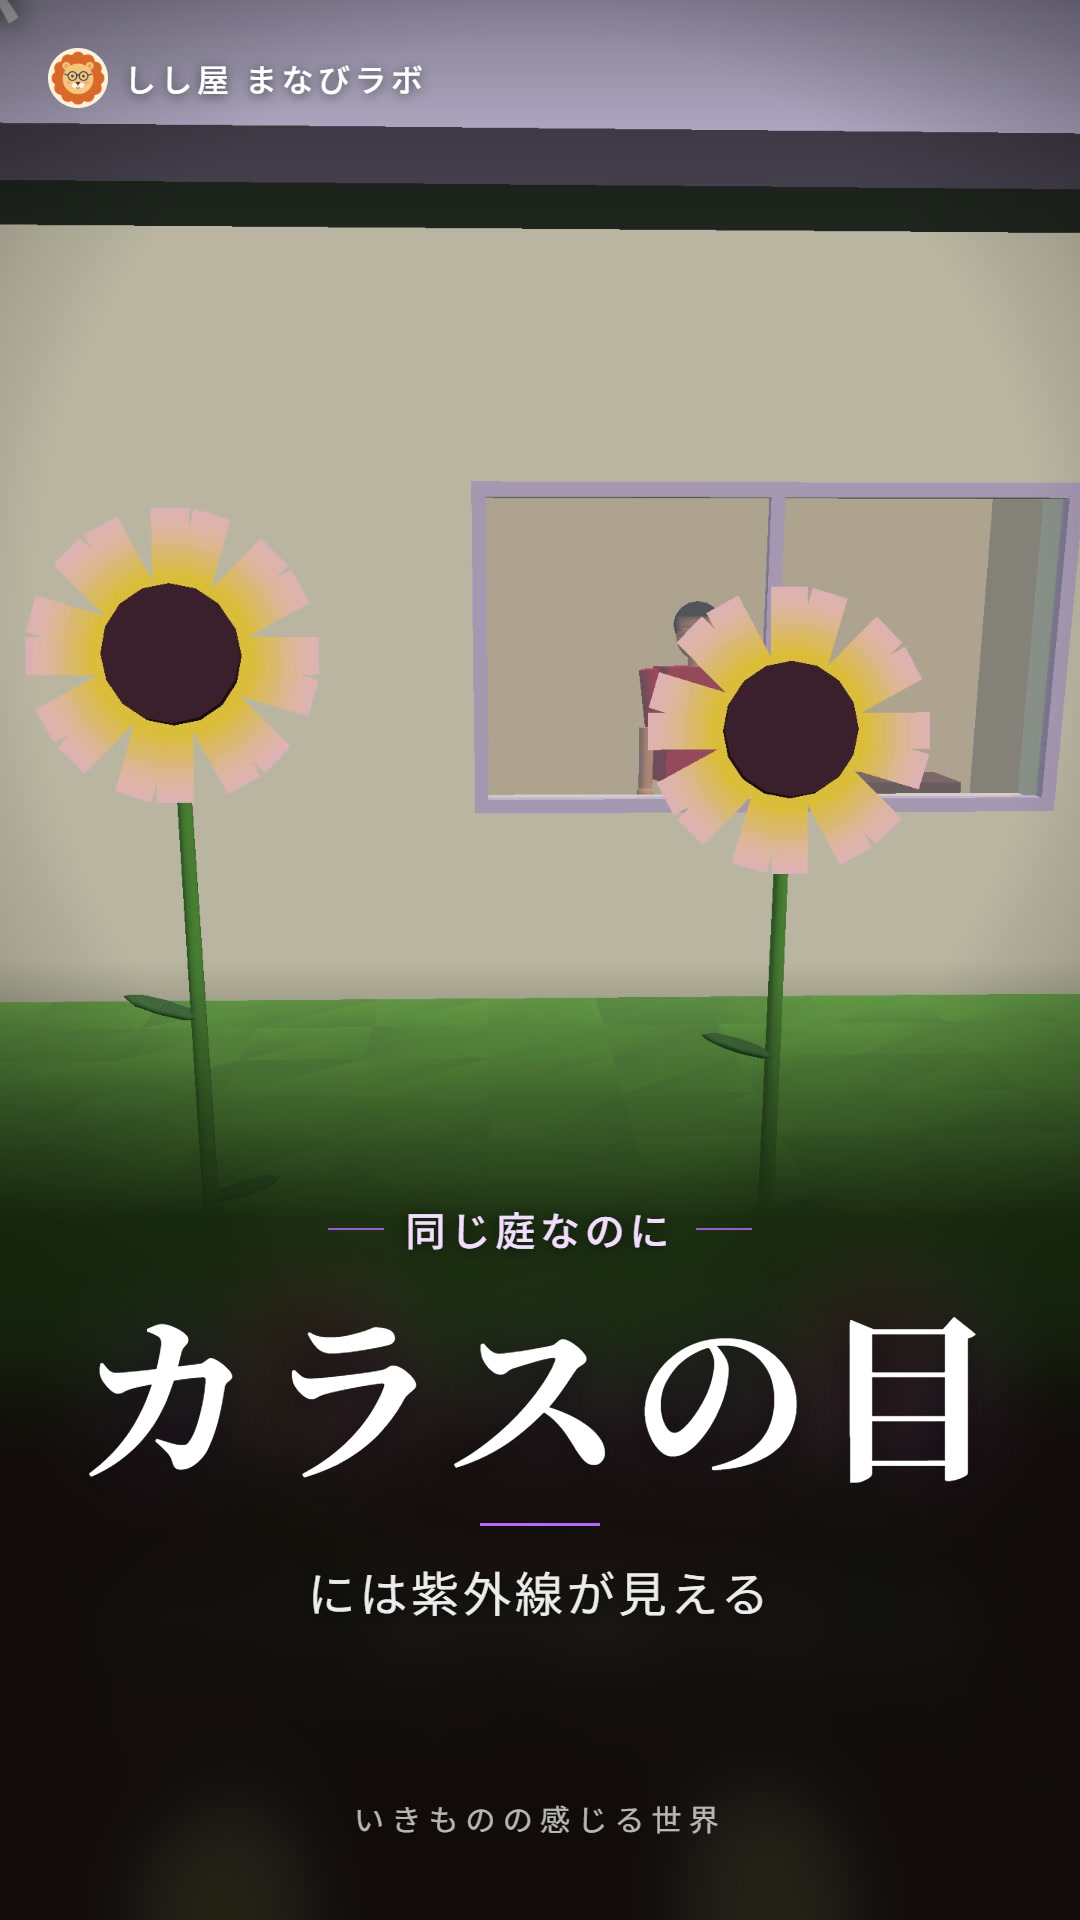
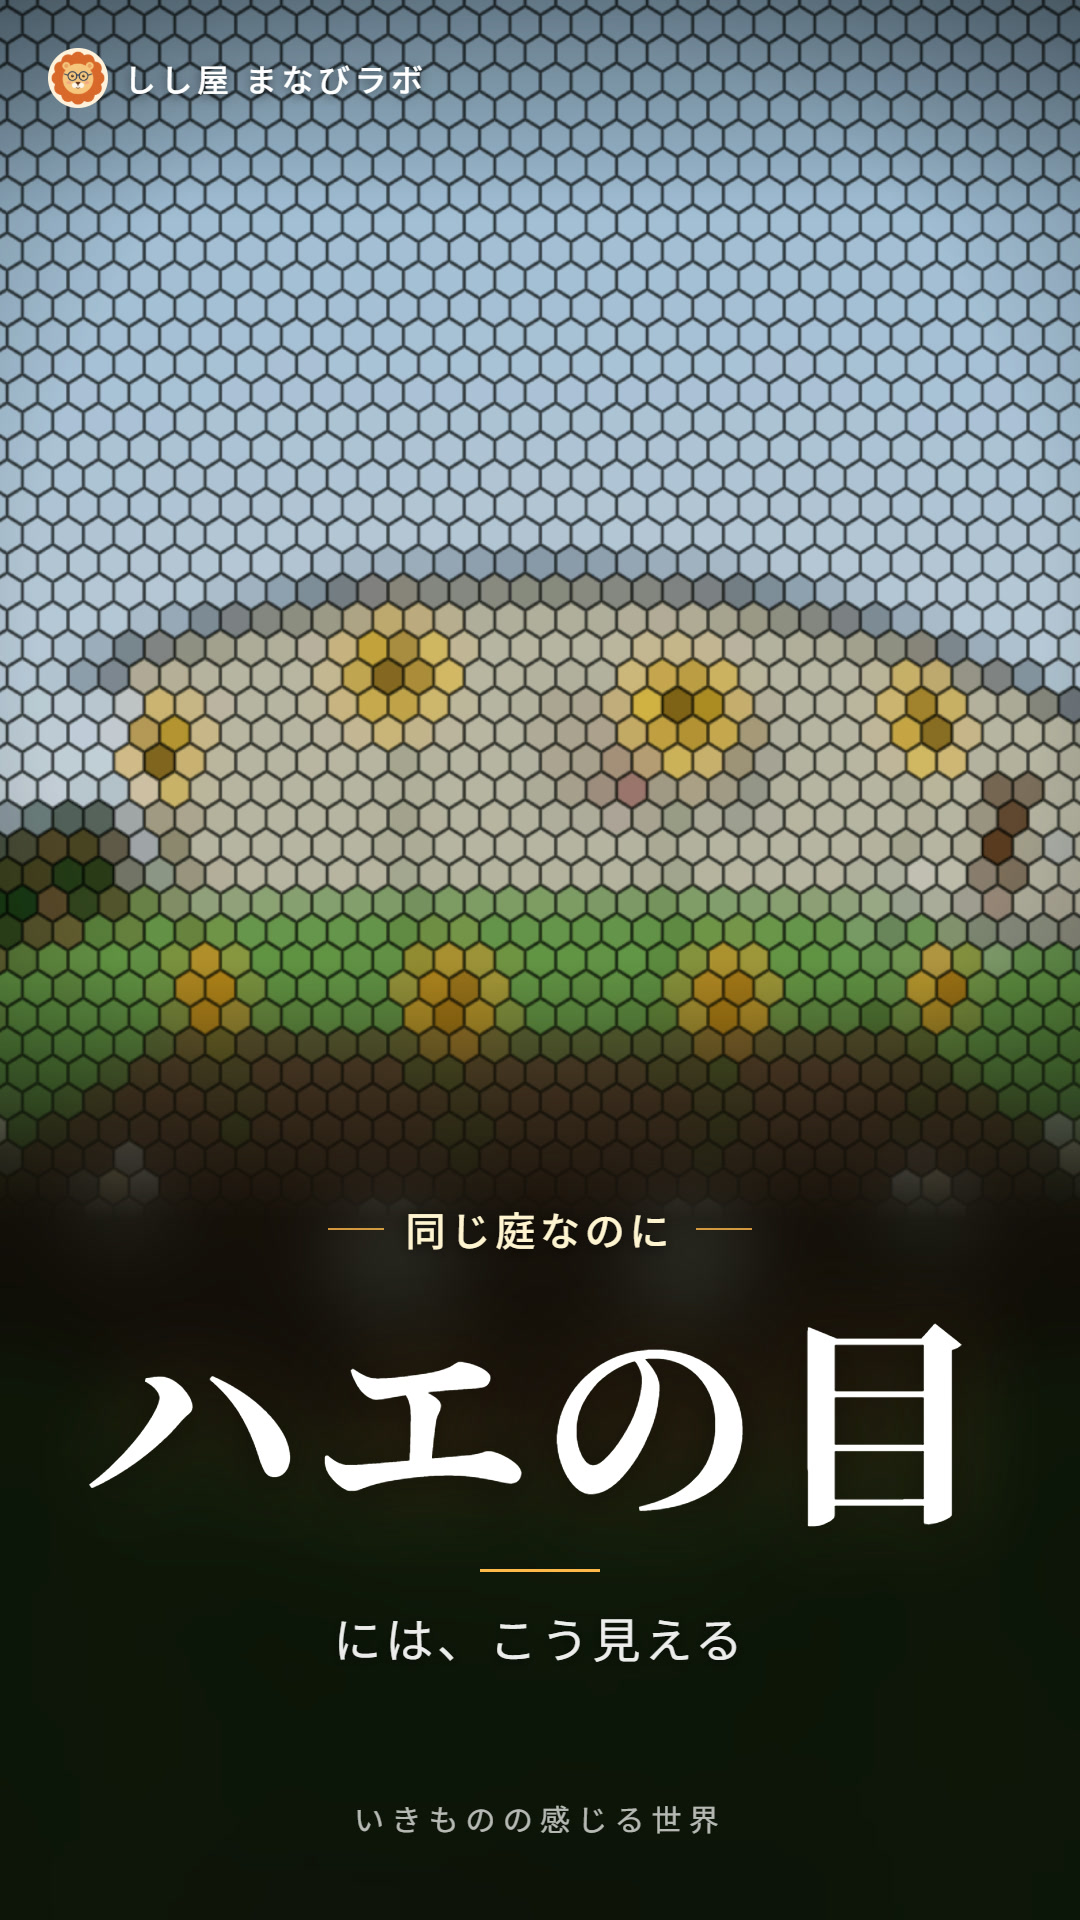
promo: いきものの感じる世界のサムネイルを「カラスの目」から「ハエの目」に（カラスは人の目とほぼ同じ絵で目立たなかった）。ショートにハエの場面はないので、アプリを 4K で撮った絵を _dev/promo/stills/ に置き、make-short-thumbs.ps1 は表の still: があればその絵を使う

diff --git a/_dev/promo/short-thumbs.js b/_dev/promo/short-thumbs.js
@@ -6,7 +6,8 @@ window.SHORT_THUMBS = {
   'evolution':     { name: 'ヒトへの46億年', t: 33, focus: [0.5, 0.33], zoom: 1.5, kicker: '溶けた地球 → 恐竜 → 人類', big: '46億年', sub: 'を40秒で', c1: '#fff3a0', c2: '#ffb21e' },
   'body-dive':     { name: '体内ダイブ', t: 3.4, focus: [0.5, 0.3], zoom: 1.15, kicker: 'カプセル内視鏡になって', big: '口から肛門', sub: 'まで旅してみた', c1: '#ffffff', c2: '#ffd36b' },
   'black-hole':    { name: 'ブラックホールの見え方', t: 20, focus: [0.5, 0.36], zoom: 1.35, kicker: '映画では省かれた、本当の姿', big: 'ブラックホール', sub: '本当は左が明るい', c1: '#fff6d8', c2: '#ffb347' },
-  'animal-senses': { name: 'いきものの感じる世界', t: 8, focus: [0.5, 0.33], zoom: 1.5, kicker: '同じ庭なのに', big: 'カラスの目', sub: 'には紫外線が見える', c1: '#f3dcff', c2: '#b26bff' },
+  // 2026-10-16: カラスの目（人の目とほぼ同じ絵で目立たなかった）→ ハエの目。ショートにハエの場面はないので、アプリの絵を stills/ に（4K で撮って真ん中を縦に切り出し）
+  'animal-senses': { name: 'いきものの感じる世界', t: 8, still: 'stills/animal-senses-fly.jpg', focus: [0.5, 0.36], zoom: 1, wzoom: 0.5, wfocus: [0.5, 0.42], kicker: '同じ庭なのに', big: 'ハエの目', sub: 'には、こう見える', c1: '#fff3d0', c2: '#ffb84a' },
   'quantum':       { name: '量子の実験室', t: 17, focus: [0.5, 0.3], zoom: 1.6, kicker: '電子を1個ずつ飛ばすと', big: 'しま模様', sub: 'が現れる ― 二重スリット', c1: '#fff3a0', c2: '#ffc21e' },
   'metamorphosis': { name: 'さなぎの中で', t: 13, focus: [0.5, 0.36], zoom: 1.7, kicker: 'イモムシがガになるまで18日', big: 'さなぎの中', sub: 'はどうなってる？', c1: '#e0fbff', c2: '#43d3ff' },
   'immune-battle': { name: '免疫のたたかい', t: 21, focus: [0.5, 0.35], zoom: 1.6, kicker: 'インフルエンザのウイルスは3日目に', big: '数十億個', sub: 'それでも8日目ごろ消える', c1: '#ffe0ea', c2: '#ff5c8a' },
